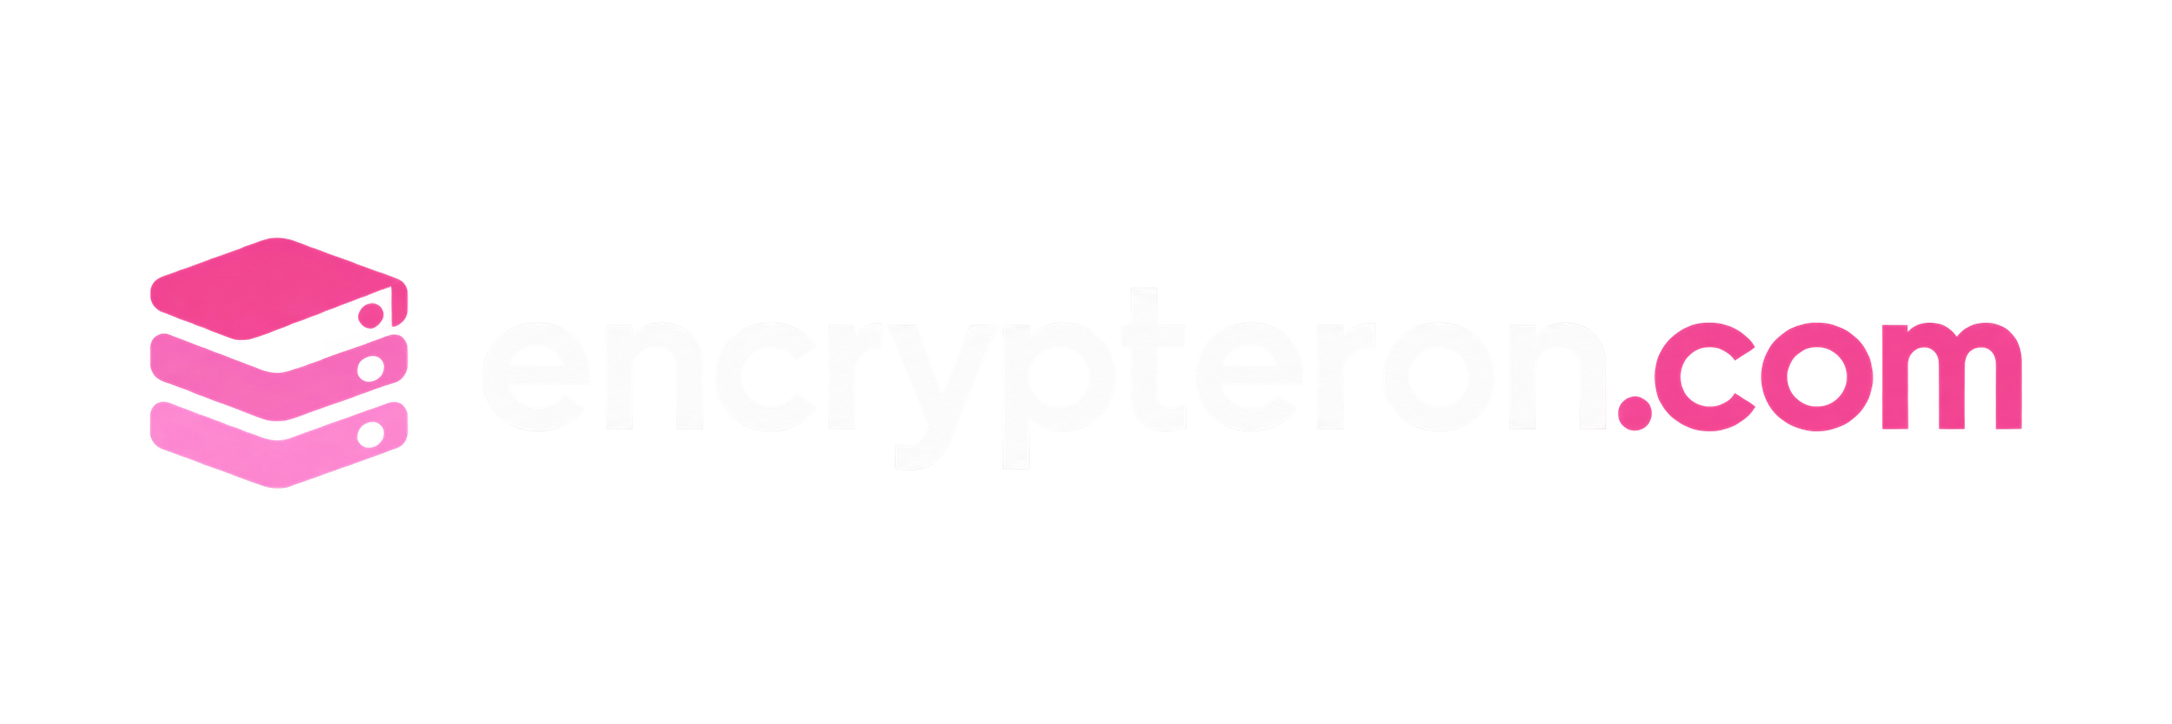
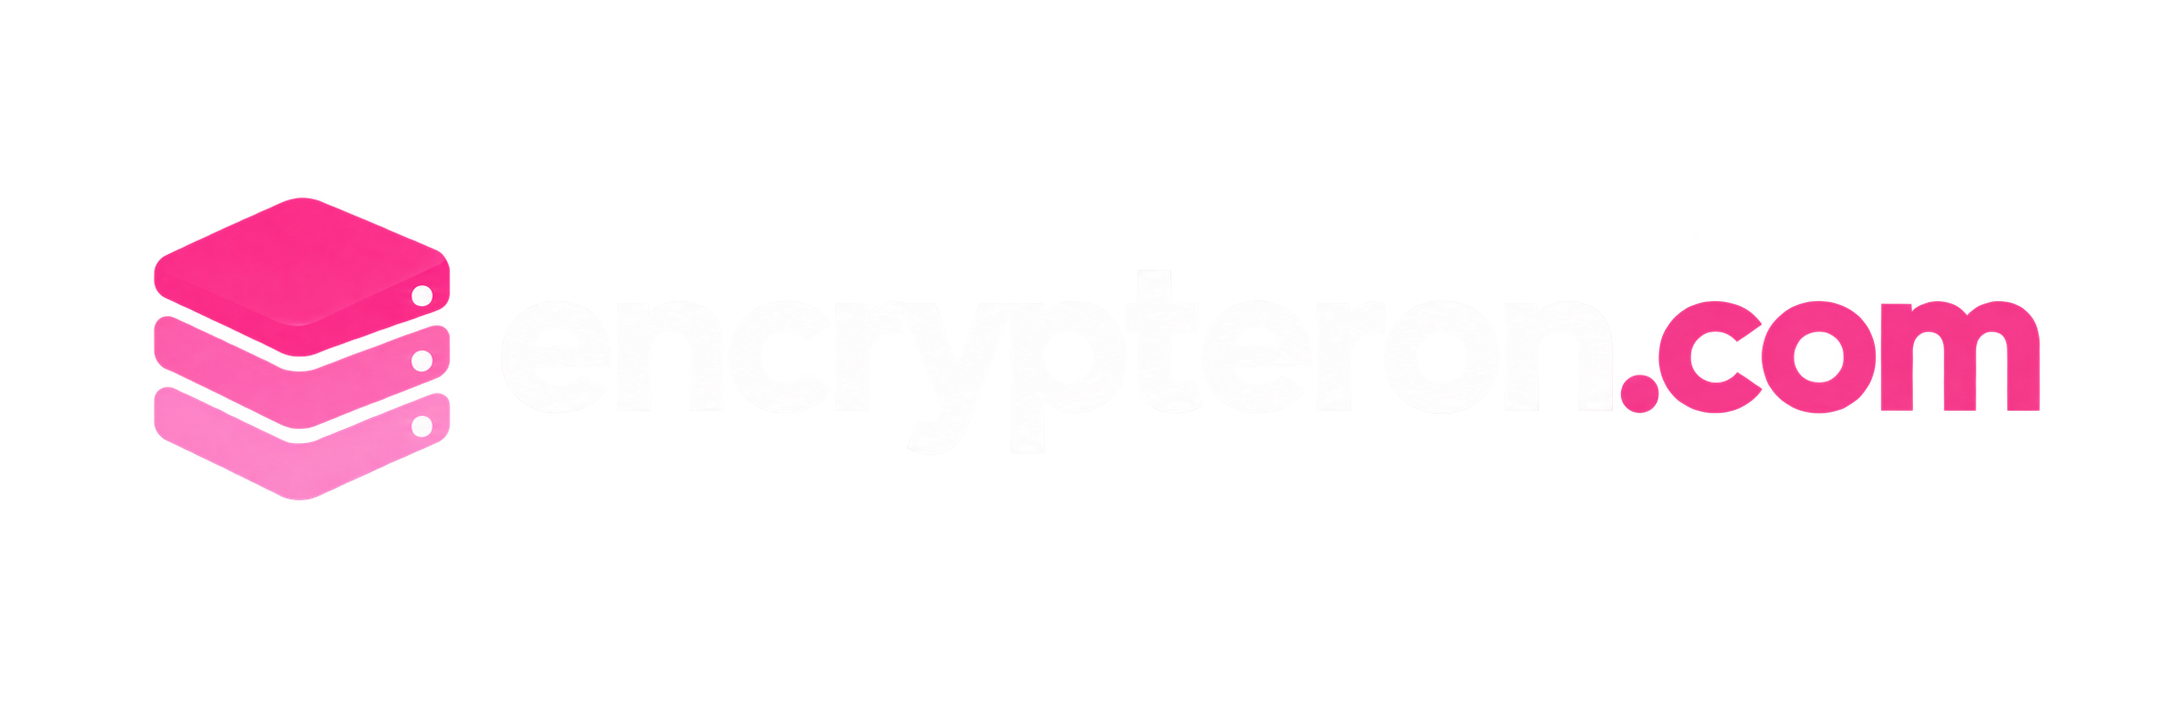
working

Changed region(s): [[0.0618, 0.2735, 0.2163, 0.6989], [0.7417, 0.395, 0.958, 0.6077]]

diff --git a/components/footer.tsx b/components/footer.tsx
@@ -5,14 +5,14 @@ import Image from "next/image";
 import { useTheme } from "./theme-provider";
 
 export function Footer() {
-  const { language } = useTheme();
+  const { language, theme } = useTheme();
   const fr = language === "fr";
   const path = (href: string) => fr ? `/fr${href}` : href;
   return (
     <footer className="site-footer">
       <div className="signature">
         <p>{fr ? "Bien cordialement," : "Best regards,"}</p>
-        <p className="signature-brand"><Image src="/assets/encrypteron.png" alt="Encrypteron" width={2172} height={724} /></p>
+        <p className="signature-brand"><Image src={theme === "dark" ? "/assets/encrypteron.png" : "/assets/encrypteron-dark.png"} alt="Encrypteron" width={2172} height={724} /></p>
         <p className="signature-tagline">{fr ? "Une infrastructure exploitée en toute clarté." : "Infrastructure, clearly operated."}</p>
         <div className="pink-rule" />
         <a href="mailto:mail@encrypteron.com">mail@encrypteron.com</a>

diff --git a/components/header.tsx b/components/header.tsx
@@ -15,7 +15,7 @@ export function Header() {
   const labels: Record<string, string> = { Products: t.products, Network: t.network, Principles: t.principles, Wiki: t.wiki };
   return (
     <header className="site-header">
-      <Link href={path("/")} className="brand" aria-label="Encrypteron"><Image src="/assets/encrypteron.png" alt="Encrypteron" width={2172} height={724} priority /></Link>
+      <Link href={path("/")} className="brand" aria-label="Encrypteron"><Image src={theme === "dark" ? "/assets/encrypteron.png" : "/assets/encrypteron-dark.png"} alt="Encrypteron" width={2172} height={724} priority /></Link>
       <nav aria-label={language === "fr" ? "Navigation principale" : "Main navigation"}>
         {navigation.map((item) => item.disabled
           ? <span className="nav-coming-soon" aria-disabled="true" key={item.label}>{item.label}<small>{t.soon}</small></span>

diff --git a/components/theme-provider.tsx b/components/theme-provider.tsx
@@ -68,6 +68,7 @@ export function ThemeProvider({
   useEffect(() => {
     document.documentElement.classList.remove("dark", "light");
     document.documentElement.classList.add(theme);
+    document.querySelector('link[rel="icon"]')?.setAttribute("href", theme === "dark" ? "/assets/encrypteron-notext.png" : "/assets/encrypteron-notext-dark.png");
   }, [theme]);
 
   const setTheme = (nextTheme: Theme) => {

diff --git a/AGENTS.md b/AGENTS.md
@@ -96,6 +96,7 @@ The browser cookies are `theme=dark|light`, `language=en|fr`, and `legal_notice_
 - The header language selector persists a language choice immediately and navigates to the corresponding route. Changing to a language whose legal notice has not been acknowledged opens the entry gate again.
 - `components/theme-provider.tsx` updates the document language after hydration; `app/fr/layout.tsx` marks the French route subtree with `lang="fr"` for server-rendered content.
 - A header-toggle choice persists a theme cookie preference.
+- The header/footer wordmark and browser icon use `encrypteron.png` / `encrypteron-notext.png` in dark theme and their `-dark.png` variants in light theme.
 - With no cookie, `components/theme-provider.tsx` also follows system theme changes.
 - Preserve the before-paint logic to prevent a color flash. Keep `data-scroll-behavior="smooth"` on the root `<html>` element because smooth scrolling is configured in `app/globals.css` and Next.js uses the attribute to manage route transitions.
 
@@ -125,7 +126,7 @@ Use semantic HTML, visible focus states, keyboard-operable controls, adequate co
 | `components/wiki-markdown.tsx`, `components/wiki-search.tsx` | Safe Wiki Markdown renderer with responsive step flows, contextual visual cards, and public index search/filter UI. |
 | `wiki/*.md` | Wiki architecture, security, data model, threat model, and verification guidance. |
 | `components/footer.tsx` | Brand signature and legal navigation. |
-| `assets/encrypteron.png`, `assets/encrypteron-notext.png` | Shared wordmark for the header/footer and square mark for the browser icon, served from `/assets/`. |
+| `assets/encrypteron.png`, `assets/encrypteron-dark.png`, `assets/encrypteron-notext.png`, `assets/encrypteron-notext-dark.png` | Theme-specific wordmarks for the header/footer and square browser icons, served from `/assets/`. |
 | `components/section-heading.tsx` | Reusable eyebrow/title/intro block. |
 | `components/theme-provider.tsx` | Theme state, system-theme fallback, legal acknowledgement entry gate, and cookie persistence. |
 | `components/plan-card.tsx` | Reusable tag-aware plan card. |
